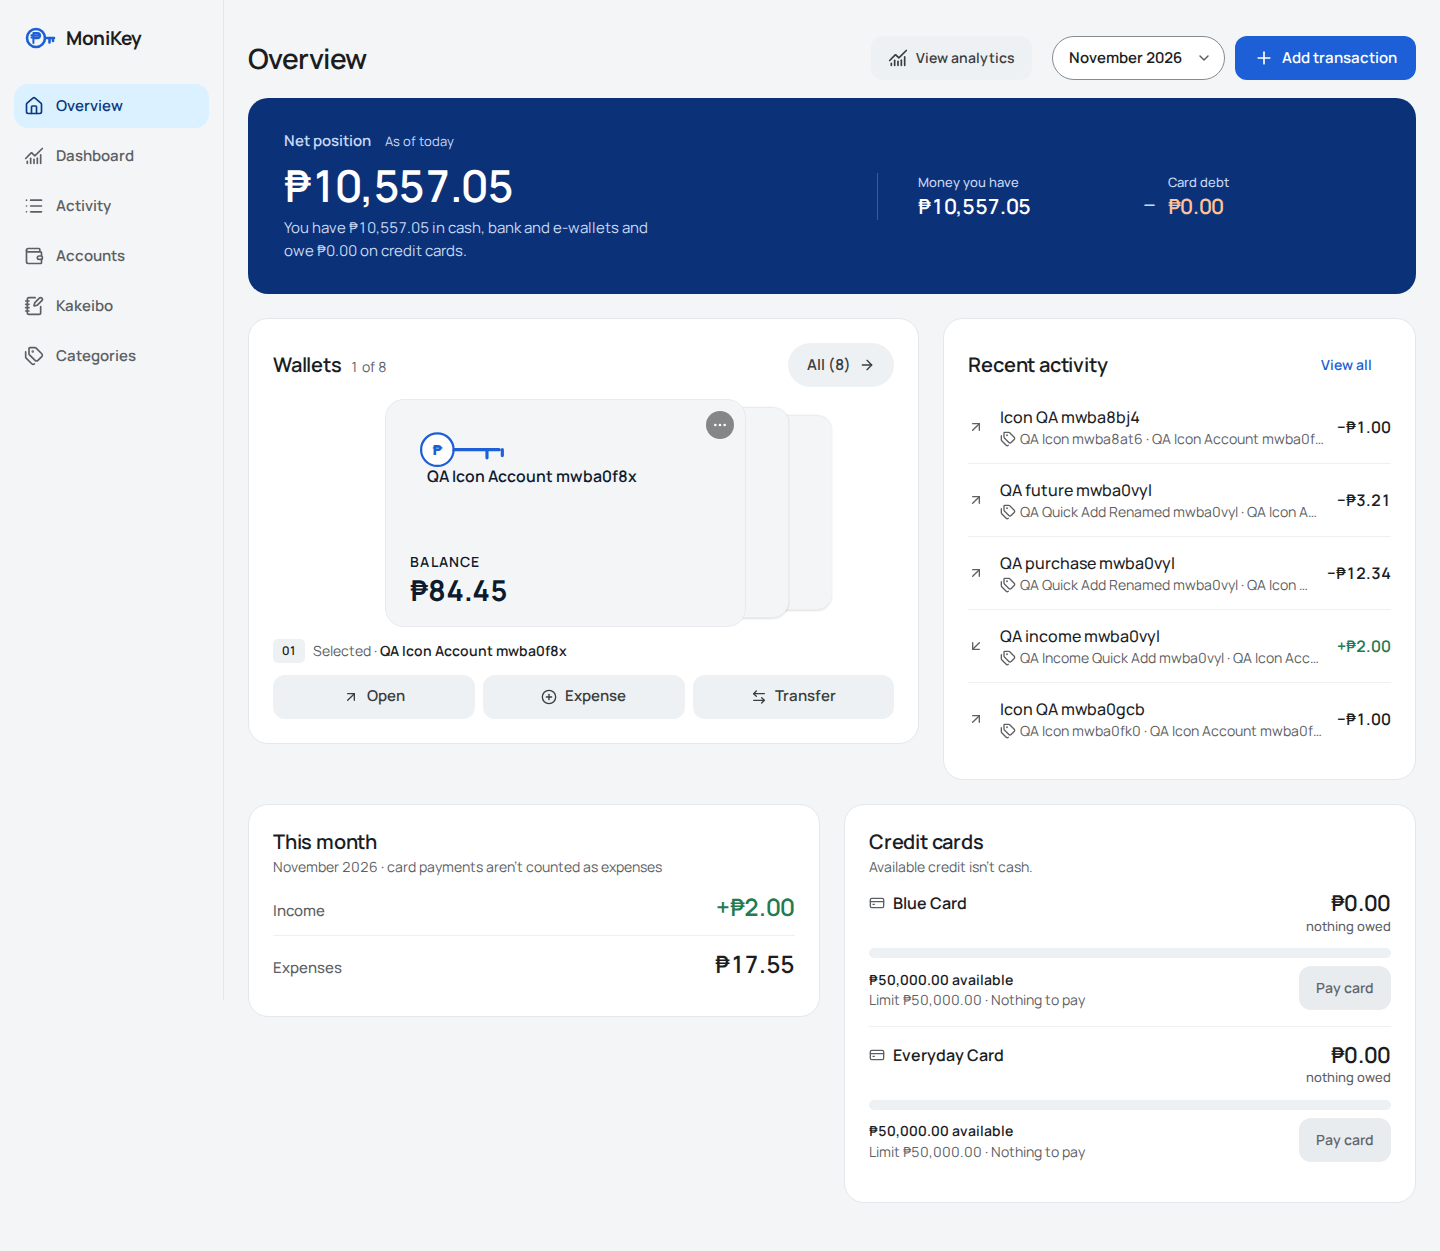
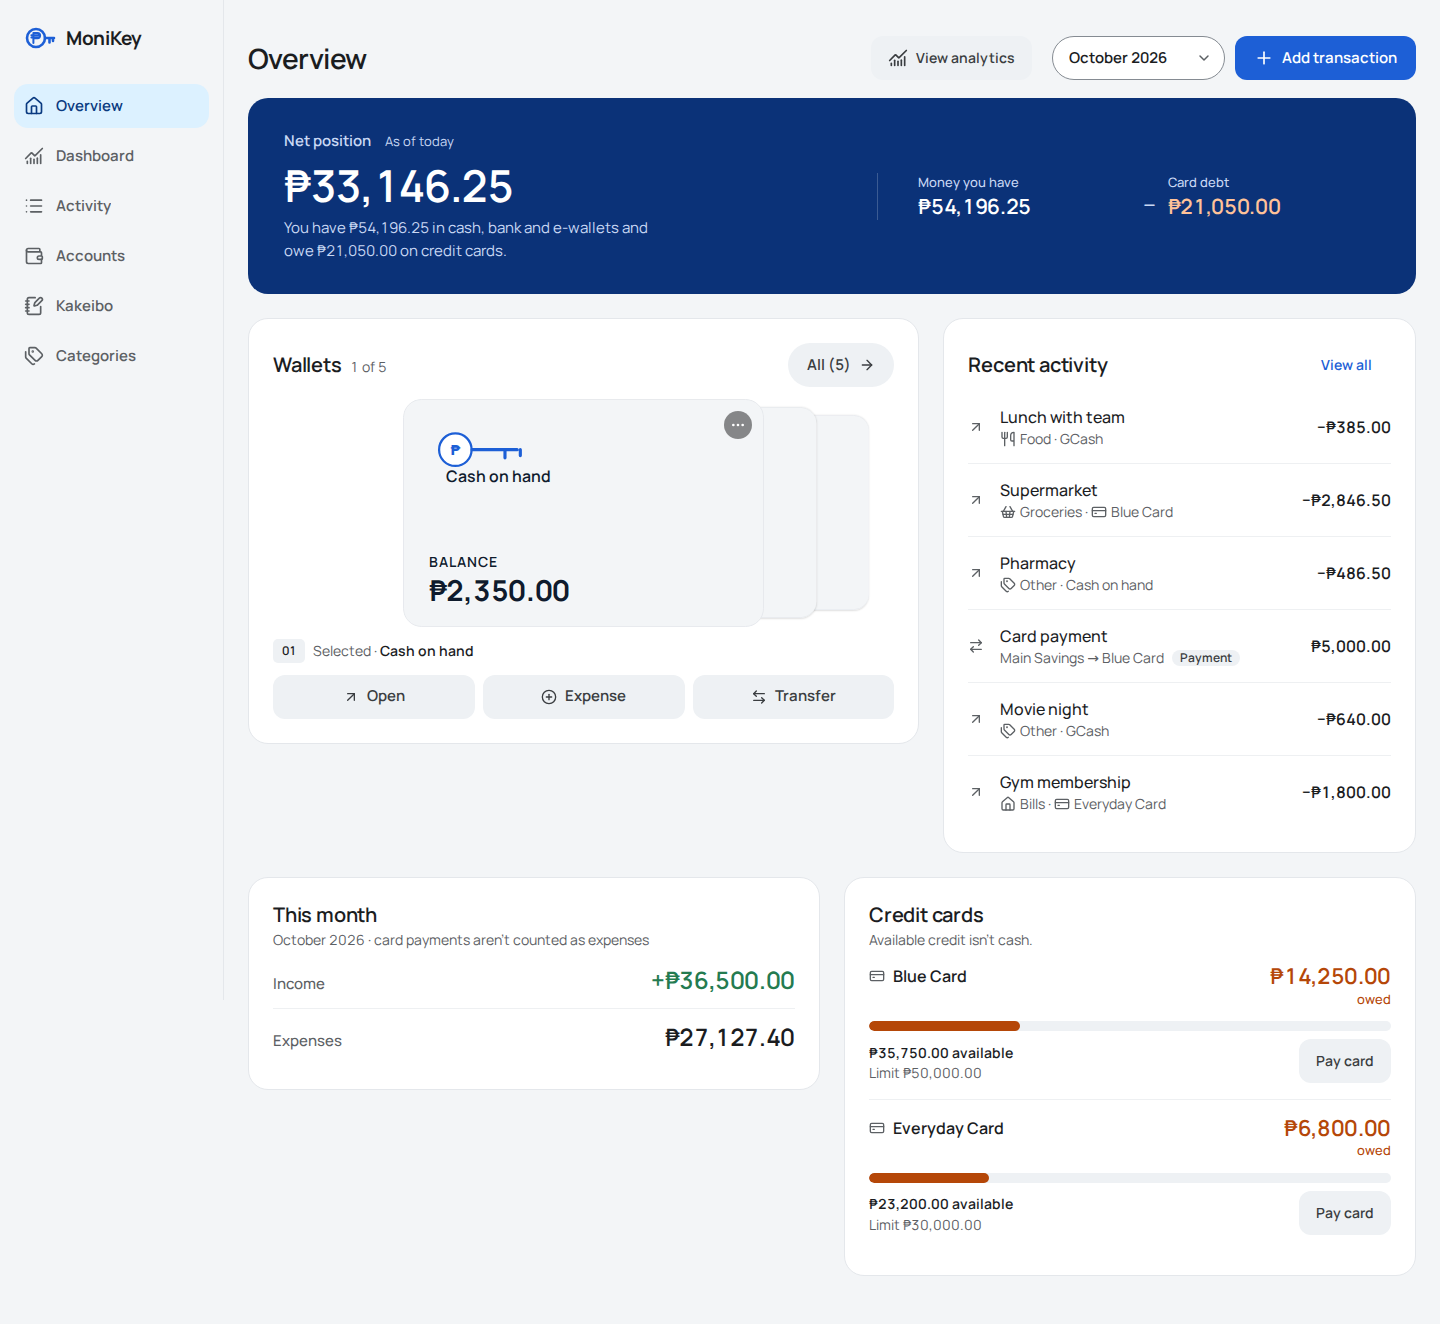
test(frontend): protect mock UI screenshots from API data

diff --git a/frontend/browser-tests/overview-dashboard.spec.ts b/frontend/browser-tests/overview-dashboard.spec.ts
@@ -4,6 +4,7 @@ import AxeBuilder from '@axe-core/playwright'
 
 test('Overview links to separate analytics without pushing current balances down', async ({ page }) => {
   const screenshots = '../docs/design/screenshots/ui-modernization/phase-d-polish'
+  const captureScreenshots = process.env.MONIKEY_CAPTURE_PHASE_D_SCREENSHOTS === '1'
   for (const width of [390, 1440]) {
     await page.setViewportSize({ width, height: width === 390 ? 844 : 1000 })
     await page.goto('/')
@@ -15,11 +16,11 @@ test('Overview links to separate analytics without pushing current balances down
     const dimensions = await page.evaluate(() => ({ width: window.innerWidth, scroll: document.documentElement.scrollWidth }))
     expect(dimensions.scroll, `horizontal overflow at ${width}px`).toBeLessThanOrEqual(dimensions.width)
     await page.evaluate(() => (document.activeElement as HTMLElement | null)?.blur())
-    if (width === 390) {
+    if (captureScreenshots && width === 390) {
       await mkdir(screenshots, { recursive: true })
       await page.screenshot({ path: `${screenshots}/overview-mobile-390.png` })
     }
-    if (width === 1440) await page.screenshot({ path: `${screenshots}/overview-desktop-1440.png`, fullPage: true })
+    if (captureScreenshots && width === 1440) await page.screenshot({ path: `${screenshots}/overview-desktop-1440.png`, fullPage: true })
     await page.getByRole('button', { name: 'View analytics' }).click()
     await expect(page.getByRole('heading', { name: 'Dashboard', level: 1 })).toBeFocused()
   }

diff --git a/frontend/browser-tests/categories.spec.ts b/frontend/browser-tests/categories.spec.ts
@@ -29,14 +29,17 @@ test('category management fits supported viewports and has no axe violations', a
 
 test('category search explains when filters have no matches', async ({ page }) => {
   const screenshots = '../docs/design/screenshots/ui-modernization/phase-d-polish'
+  const captureScreenshots = process.env.MONIKEY_CAPTURE_PHASE_D_SCREENSHOTS === '1'
   await page.setViewportSize({ width: 390, height: 844 })
   await openCategories(page)
   await page.getByLabel('Search categories').fill('no category has this exact name')
   const noResults = page.getByText('No categories match these filters.', { exact: true })
   await expect(noResults).toBeVisible()
   await noResults.scrollIntoViewIfNeeded()
-  await mkdir(screenshots, { recursive: true })
-  await page.screenshot({ path: `${screenshots}/categories-filtered-empty-390.png` })
+  if (captureScreenshots) {
+    await mkdir(screenshots, { recursive: true })
+    await page.screenshot({ path: `${screenshots}/categories-filtered-empty-390.png` })
+  }
 })
 
 test('failed category reads expose a retry and recover', async ({ page }) => {
